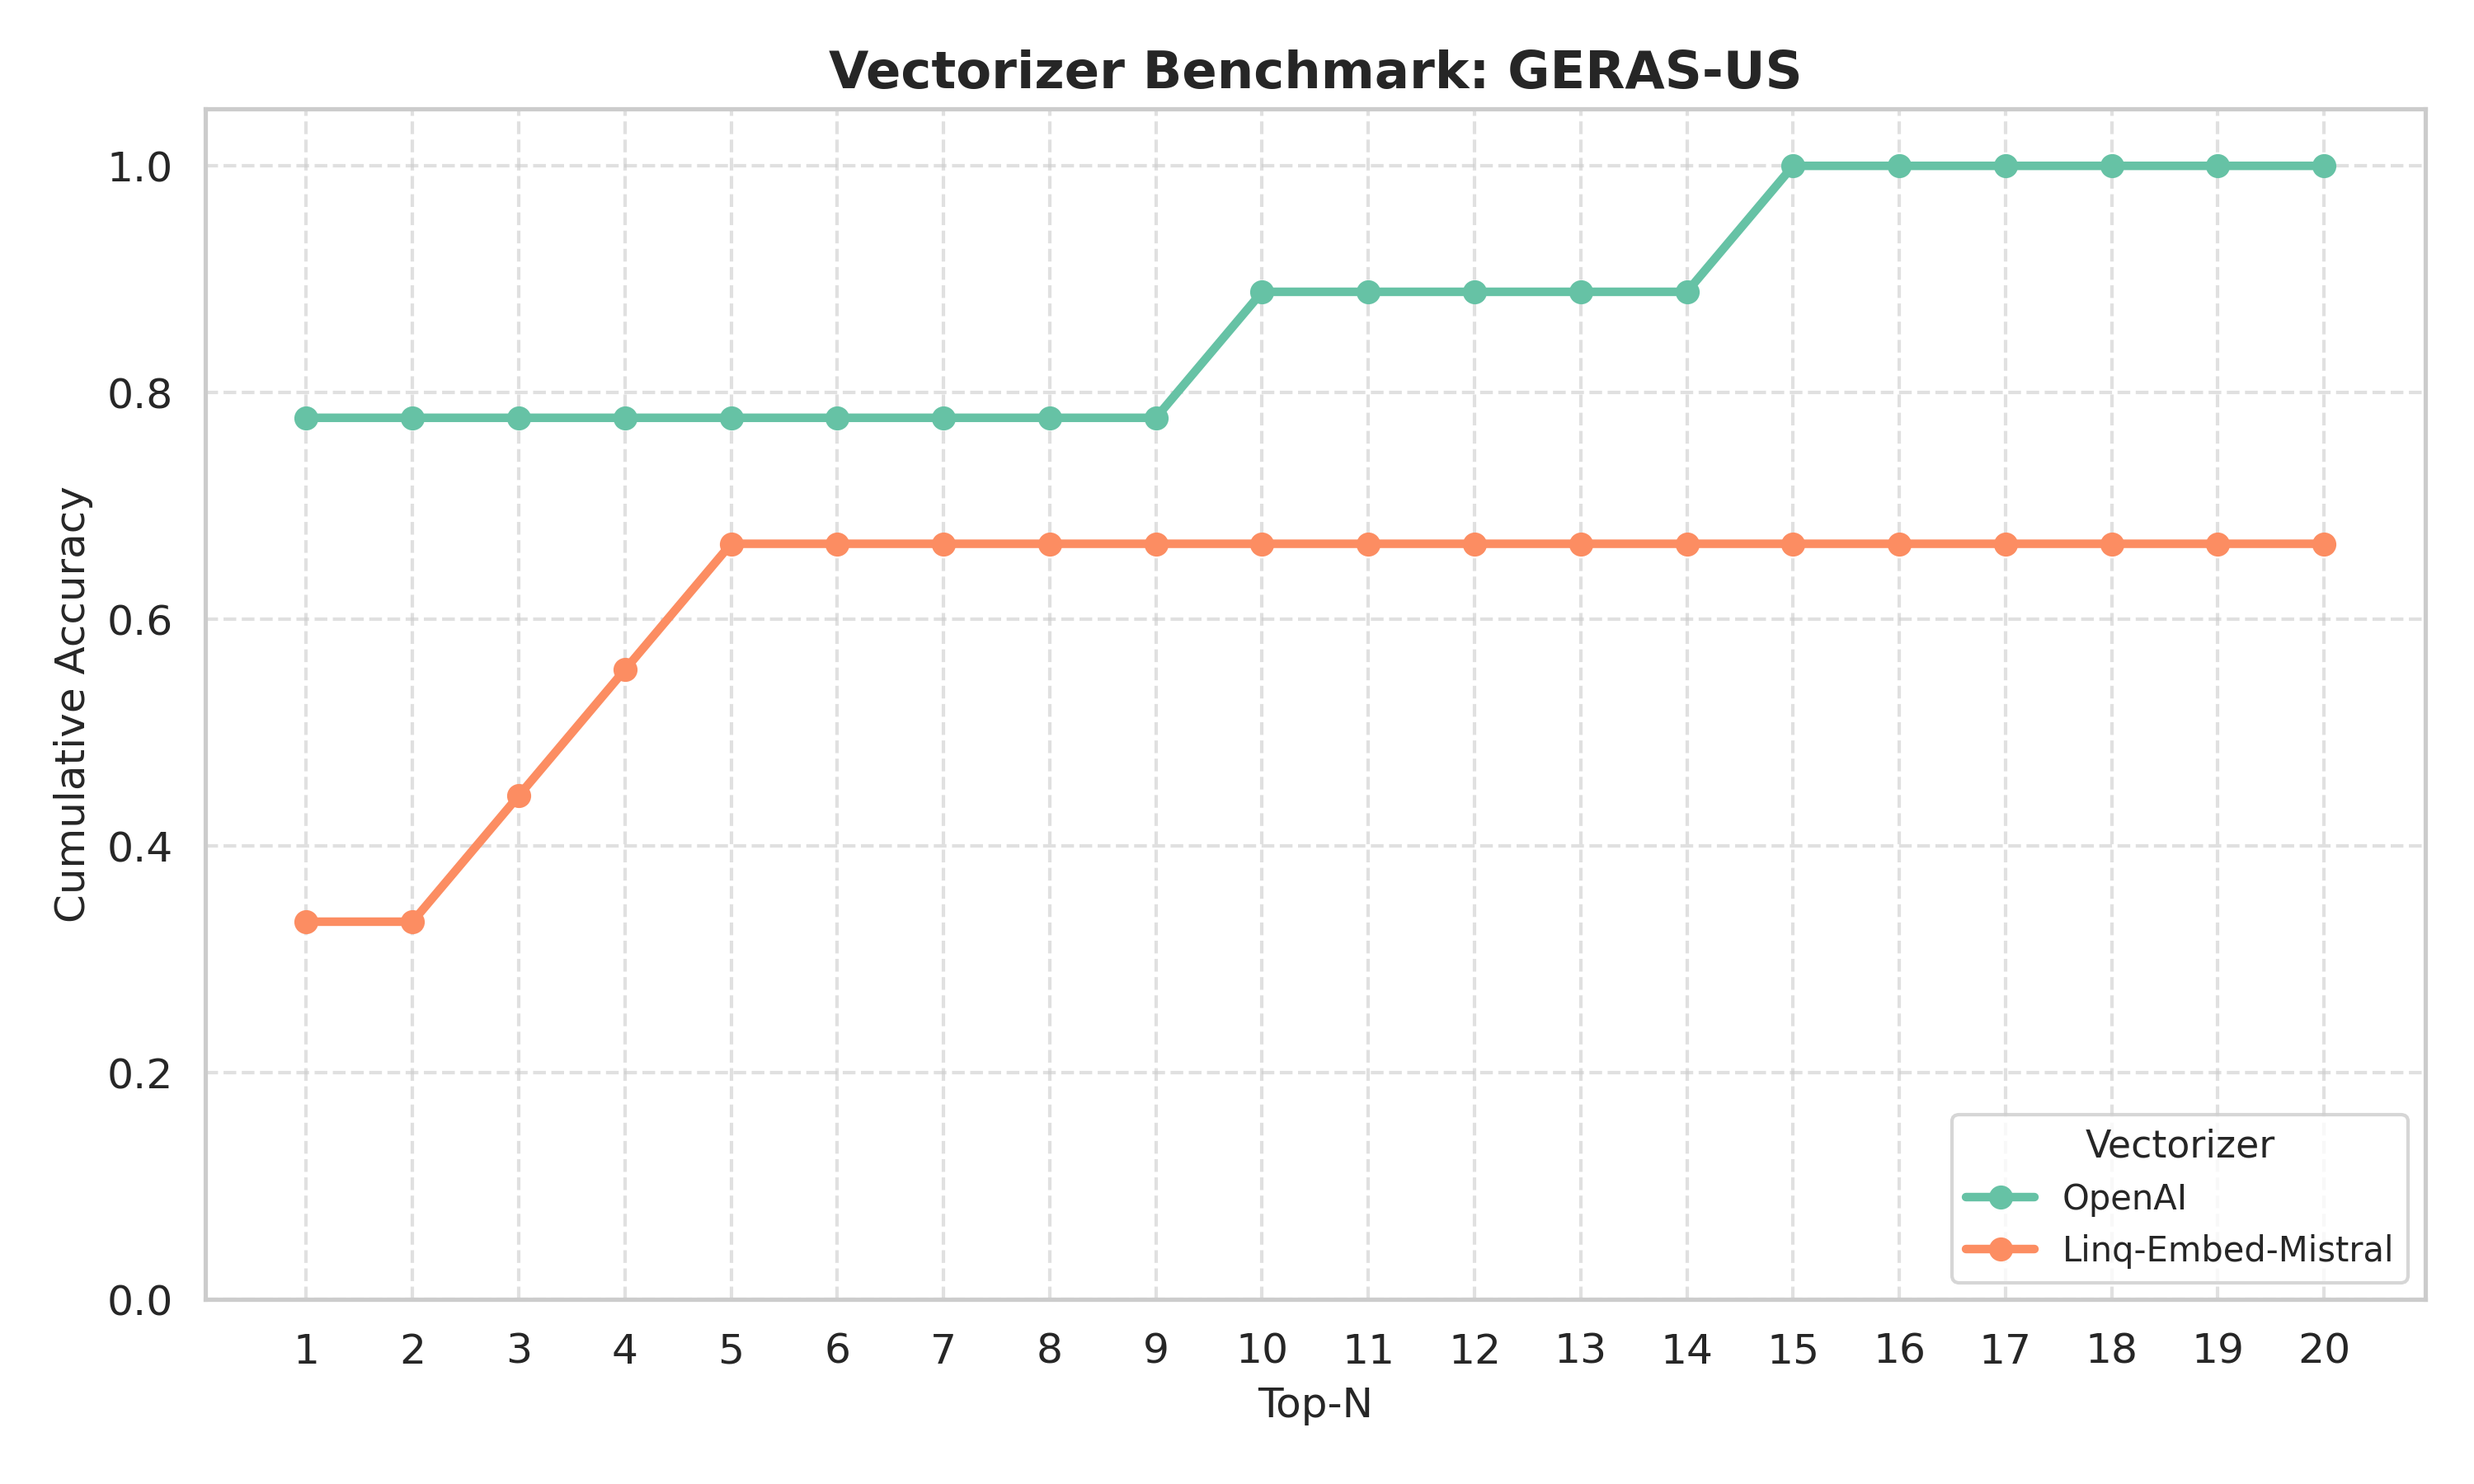
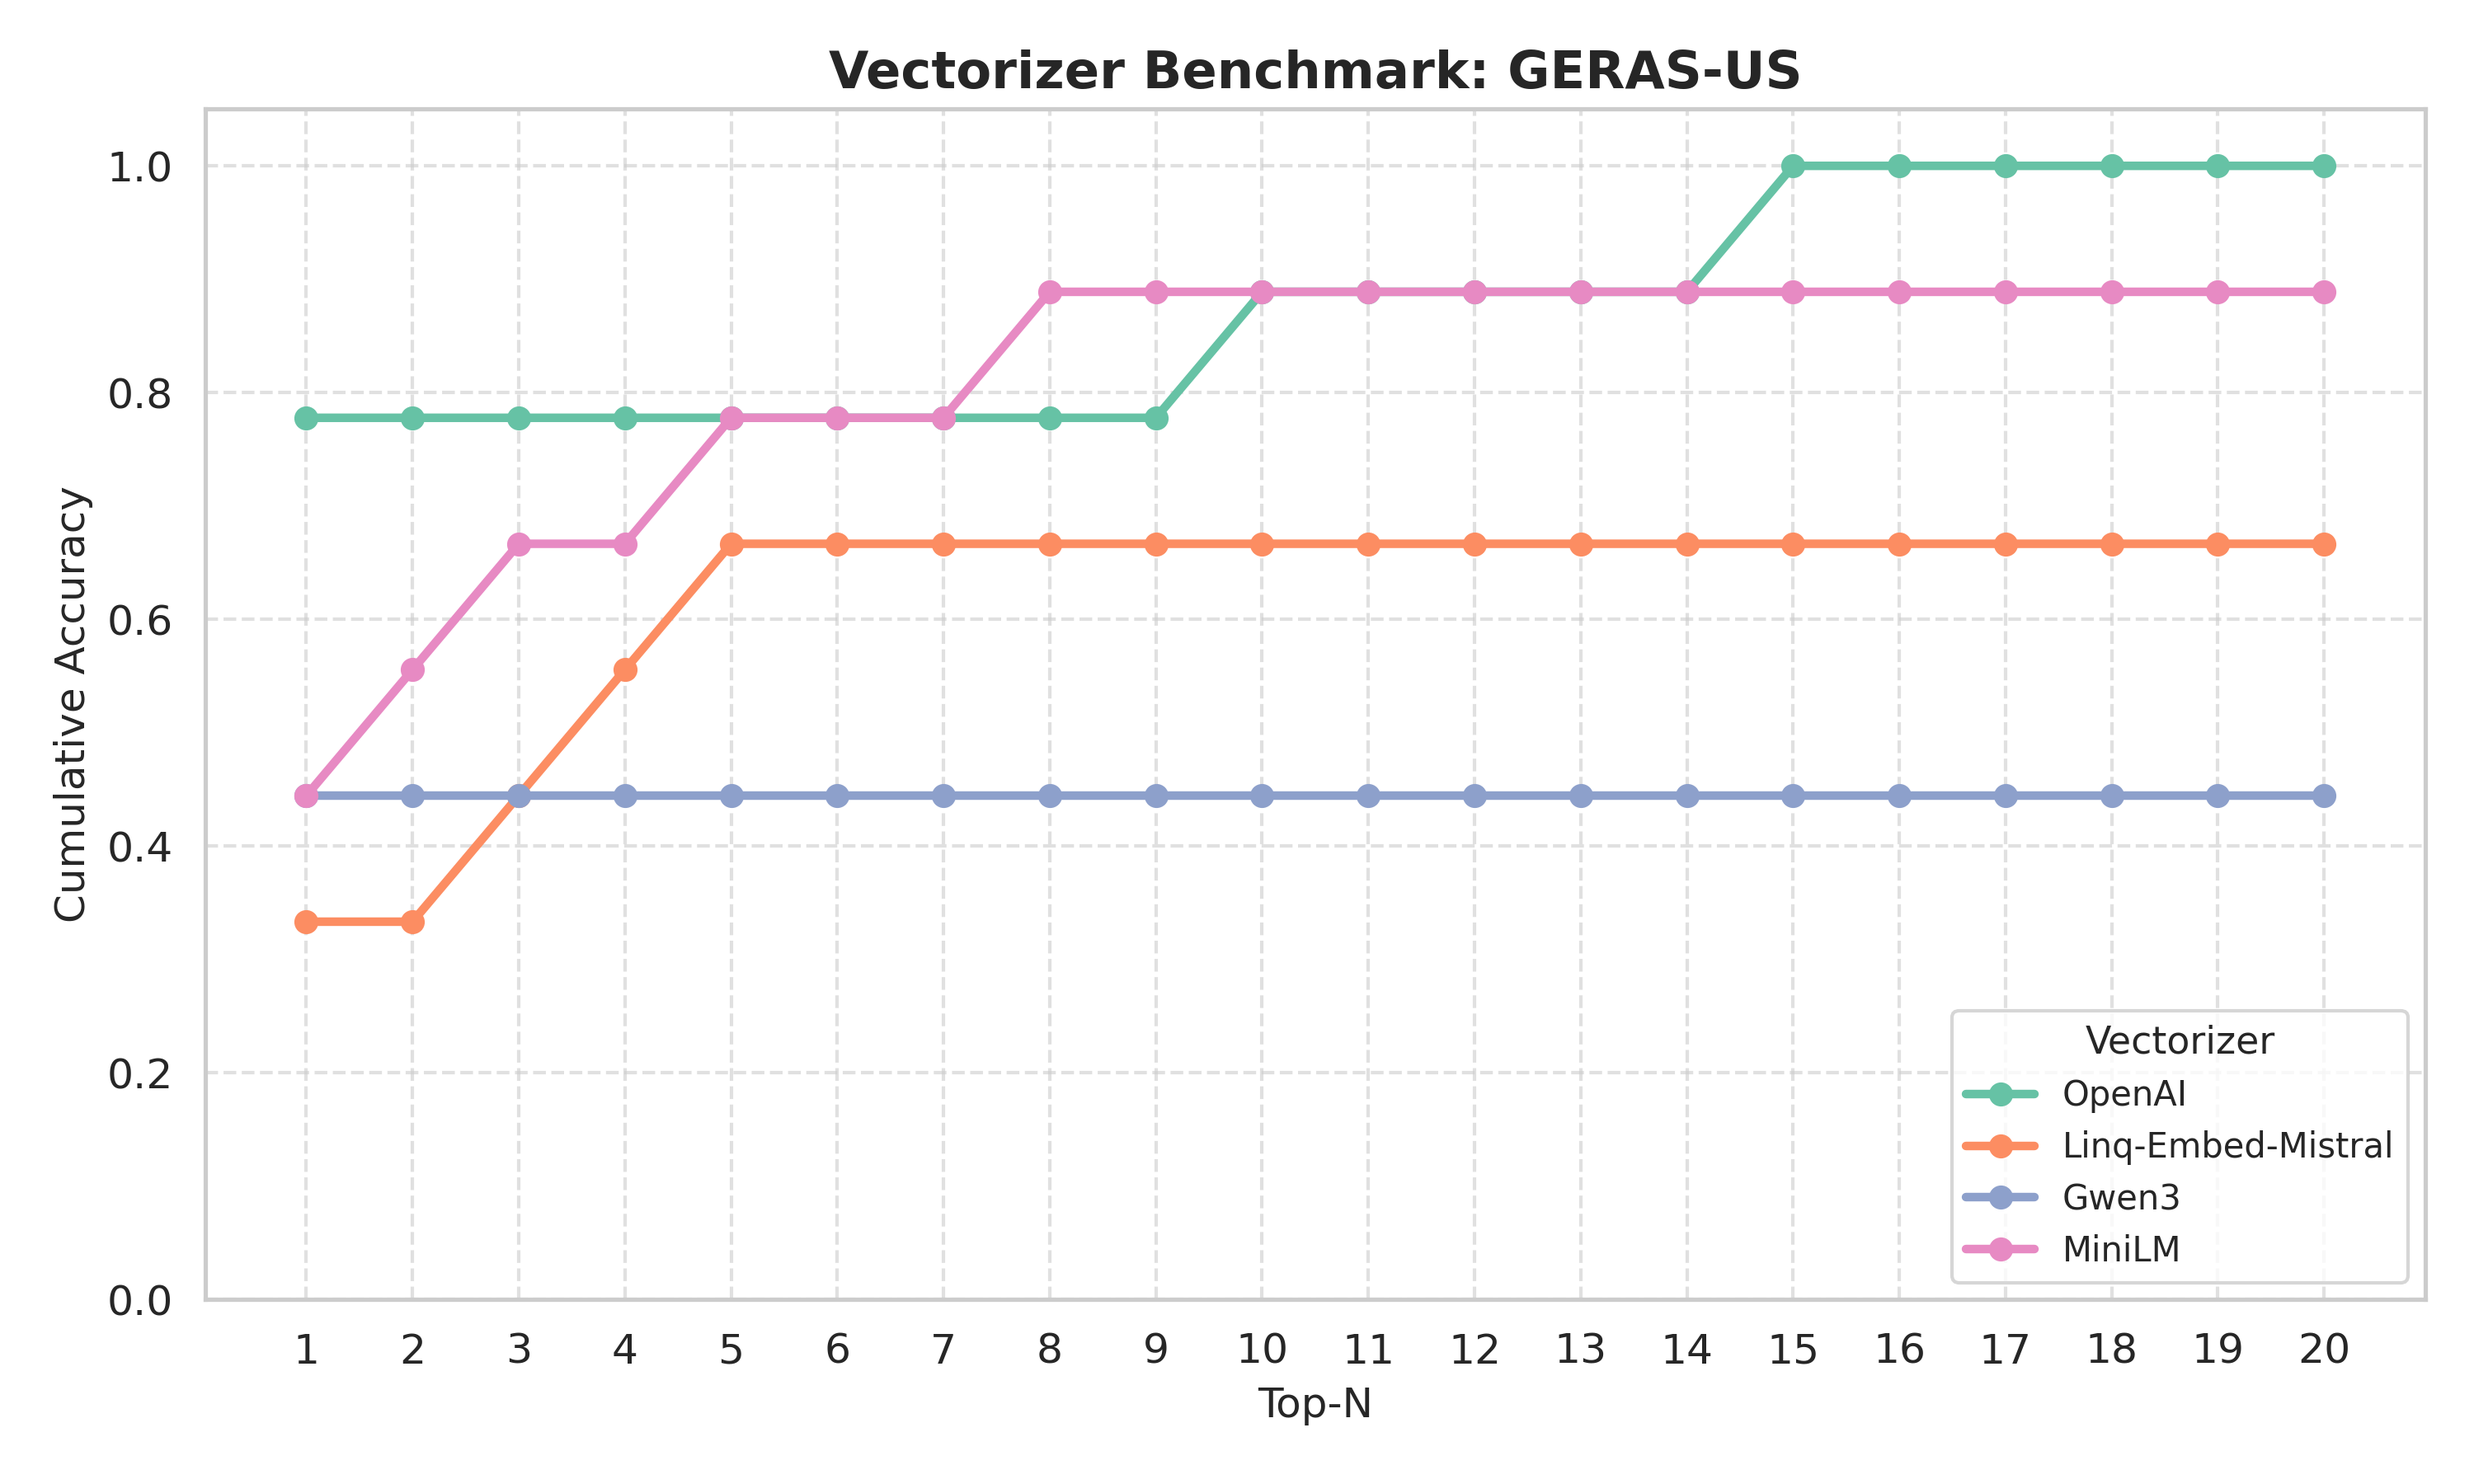
update

diff --git a/ad-llm-embeddings-benchmark/visualization.py b/ad-llm-embeddings-benchmark/visualization.py
@@ -146,12 +146,52 @@ results_linq = {
                          0.5217391304347826, 0.5652173913043478, 0.5652173913043478, 0.5652173913043478,
                          0.6521739130434783, 0.6521739130434783, 0.6956521739130435, 0.6956521739130435]}
 
+results_gwen3 = {
+    'GERAS-I': [0.5454545454545454, 0.6363636363636364, 0.6363636363636364, 0.6363636363636364, 0.6363636363636364,
+                0.6363636363636364, 0.6363636363636364, 0.6363636363636364, 0.6363636363636364, 0.6363636363636364,
+                0.6363636363636364, 0.6363636363636364, 0.6363636363636364, 0.7272727272727273, 0.7272727272727273,
+                0.7272727272727273, 0.7272727272727273, 0.7272727272727273, 0.7272727272727273, 0.7272727272727273],
+    'GERAS-US': [0.4444444444444444, 0.4444444444444444, 0.4444444444444444, 0.4444444444444444, 0.4444444444444444,
+                 0.4444444444444444, 0.4444444444444444, 0.4444444444444444, 0.4444444444444444, 0.4444444444444444,
+                 0.4444444444444444, 0.4444444444444444, 0.4444444444444444, 0.4444444444444444, 0.4444444444444444,
+                 0.4444444444444444, 0.4444444444444444, 0.4444444444444444, 0.4444444444444444, 0.4444444444444444],
+    'GERAS-J': [0.45, 0.45, 0.5, 0.55, 0.55, 0.55, 0.55, 0.55, 0.55, 0.55, 0.55, 0.6, 0.65, 0.65, 0.65, 0.7, 0.7, 0.7,
+                0.7, 0.75],
+    'GERAS-II': [0.375, 0.375, 0.375, 0.375, 0.375, 0.375, 0.375, 0.375, 0.375, 0.375, 0.5, 0.5, 0.5, 0.5, 0.5, 0.5,
+                 0.5, 0.5, 0.5, 0.5],
+    'PREVENT Dementia': [0.34782608695652173, 0.34782608695652173, 0.391304347826087, 0.43478260869565216,
+                         0.43478260869565216, 0.43478260869565216, 0.43478260869565216, 0.43478260869565216,
+                         0.4782608695652174, 0.4782608695652174, 0.5217391304347826, 0.5652173913043478,
+                         0.5652173913043478, 0.5652173913043478, 0.5652173913043478, 0.5652173913043478,
+                         0.5652173913043478, 0.5652173913043478, 0.5652173913043478, 0.5652173913043478]}
+
+all_mini_lm = {
+    'GERAS-I': [0.45454545454545453, 0.7272727272727273, 0.7272727272727273, 0.7272727272727273, 0.7272727272727273,
+                0.7272727272727273, 0.7272727272727273, 0.8181818181818182, 0.8181818181818182, 0.8181818181818182,
+                0.9090909090909091, 0.9090909090909091, 0.9090909090909091, 0.9090909090909091, 0.9090909090909091,
+                0.9090909090909091, 0.9090909090909091, 0.9090909090909091, 0.9090909090909091, 0.9090909090909091],
+    'GERAS-US': [0.4444444444444444, 0.5555555555555556, 0.6666666666666666, 0.6666666666666666, 0.7777777777777778,
+                 0.7777777777777778, 0.7777777777777778, 0.8888888888888888, 0.8888888888888888, 0.8888888888888888,
+                 0.8888888888888888, 0.8888888888888888, 0.8888888888888888, 0.8888888888888888, 0.8888888888888888,
+                 0.8888888888888888, 0.8888888888888888, 0.8888888888888888, 0.8888888888888888, 0.8888888888888888],
+    'GERAS-J': [0.7, 0.85, 0.9, 0.95, 1.0, 1.0, 1.0, 1.0, 1.0, 1.0, 1.0, 1.0, 1.0, 1.0, 1.0, 1.0, 1.0, 1.0, 1.0, 1.0],
+    'GERAS-II': [0.5, 0.5, 0.5, 0.5, 0.625, 0.625, 0.625, 0.75, 0.75, 0.75, 0.75, 0.75, 0.75, 0.75, 0.75, 0.75, 0.75,
+                 0.875, 0.875, 0.875],
+    'PREVENT Dementia': [0.43478260869565216, 0.43478260869565216, 0.6086956521739131, 0.6521739130434783,
+                         0.7391304347826086, 0.8260869565217391, 0.8695652173913043, 0.8695652173913043,
+                         0.9130434782608695, 0.9130434782608695, 0.9130434782608695, 0.9130434782608695,
+                         0.9130434782608695, 1.0, 1.0, 1.0, 1.0, 1.0, 1.0, 1.0]}
+
 plot_top_n_accuracies(accuracies=results_linq, vectorizer_name="Linq-Embed-Mistral", save_path="plots")
 plot_top_n_accuracies(accuracies=results_openai, vectorizer_name="OpenAI", save_path="plots")
+plot_top_n_accuracies(accuracies=results_gwen3, vectorizer_name="Gwen3", save_path="plots")
+plot_top_n_accuracies(accuracies=all_mini_lm, vectorizer_name="MiniLM", save_path="plots")
 
 all_accuracies = {
     "OpenAI": results_openai,
     "Linq-Embed-Mistral": results_linq,
+    "Gwen3": results_gwen3,
+    "MiniLM": all_mini_lm
 }
 
 df_summary = summarize_top1_accuracies(all_accuracies)

diff --git a/ad-llm-embeddings-benchmark/vectorizers.py b/ad-llm-embeddings-benchmark/vectorizers.py
@@ -66,7 +66,7 @@ class OpenAIVectorizer(Vectorizer):
 
         try:
             response = self.client.embeddings.create(input=self.sanitize_text(text),
-            model=self.model)
+                                                     model=self.model)
             return response.data[0].embedding
 
         except Exception as e:
@@ -93,8 +93,8 @@ class GeminiVectorizer(Vectorizer):
             client = genai.Client(api_key="GEMINI_API_KEY")
 
             result = client.models.embed_content(
-                    model="gemini-embedding-exp-03-07",
-                    contents=self.sanitize_text(text))
+                model="gemini-embedding-exp-03-07",
+                contents=self.sanitize_text(text))
             return result
 
         except Exception as e:
@@ -105,6 +105,7 @@ class _HuggingFaceVectorizer(Vectorizer):
     """
     Shared base for HF models.
     """
+
     def __init__(self, model_name: str):
         self.model = SentenceTransformer(model_name)
 
@@ -113,40 +114,28 @@ class _HuggingFaceVectorizer(Vectorizer):
         return [float(x) for x in embedding]
 
 
-class LinqEmbedMistralVectorizer(_HuggingFaceVectorizer): 
+class LinqEmbedMistralVectorizer(_HuggingFaceVectorizer):
     """
     Linq-Embed-Mistral from Baichuan
     """
+
     def __init__(self):
         super().__init__("Linq-AI-Research/Linq-Embed-Mistral")
 
-class NVEmbedV2Vectorizer(_HuggingFaceVectorizer):
+
+class Qwen38BVectorizer(_HuggingFaceVectorizer):
     """
-    NV-Embed-v2 from NVIDIA (Mistral-7B based)
+    Qwen3, 2nd best performning model after gemini from MTEB
     """
+
     def __init__(self):
-        super().__init__("nvidia/nv-embed-v2")
+        super().__init__("Qwen/Qwen3-Embedding-8B")
 
 
-class NomicEmbedTextV15Vectorizer(_HuggingFaceVectorizer):
+class AllMiniLMVectorizer(_HuggingFaceVectorizer):
     """
-    Nomic-Embed-Text-v1.5
+    all-MiniLM-L6-v2 - most used vectorizer from HF
     """
+
     def __init__(self):
-        super().__init__("Nomic/embed-text-v1.5")
-
-
-class BGEEnICLVectorizer(_HuggingFaceVectorizer):
-    """
-    bge-en-icl from BAAI
-    """
-    def __init__(self):
-        super().__init__("BAAI/bge-en-icl")
-
-
-class StellaEn15BV5Vectorizer(_HuggingFaceVectorizer):
-    """
-    stella_en_1.5B_v5 (Alibaba-NLP/GTE-based)
-    """
-    def __init__(self):
-        super().__init__("dunzhang/stella_en_1.5B_v5")
+        super().__init__("sentence-transformers/all-MiniLM-L6-v2")
